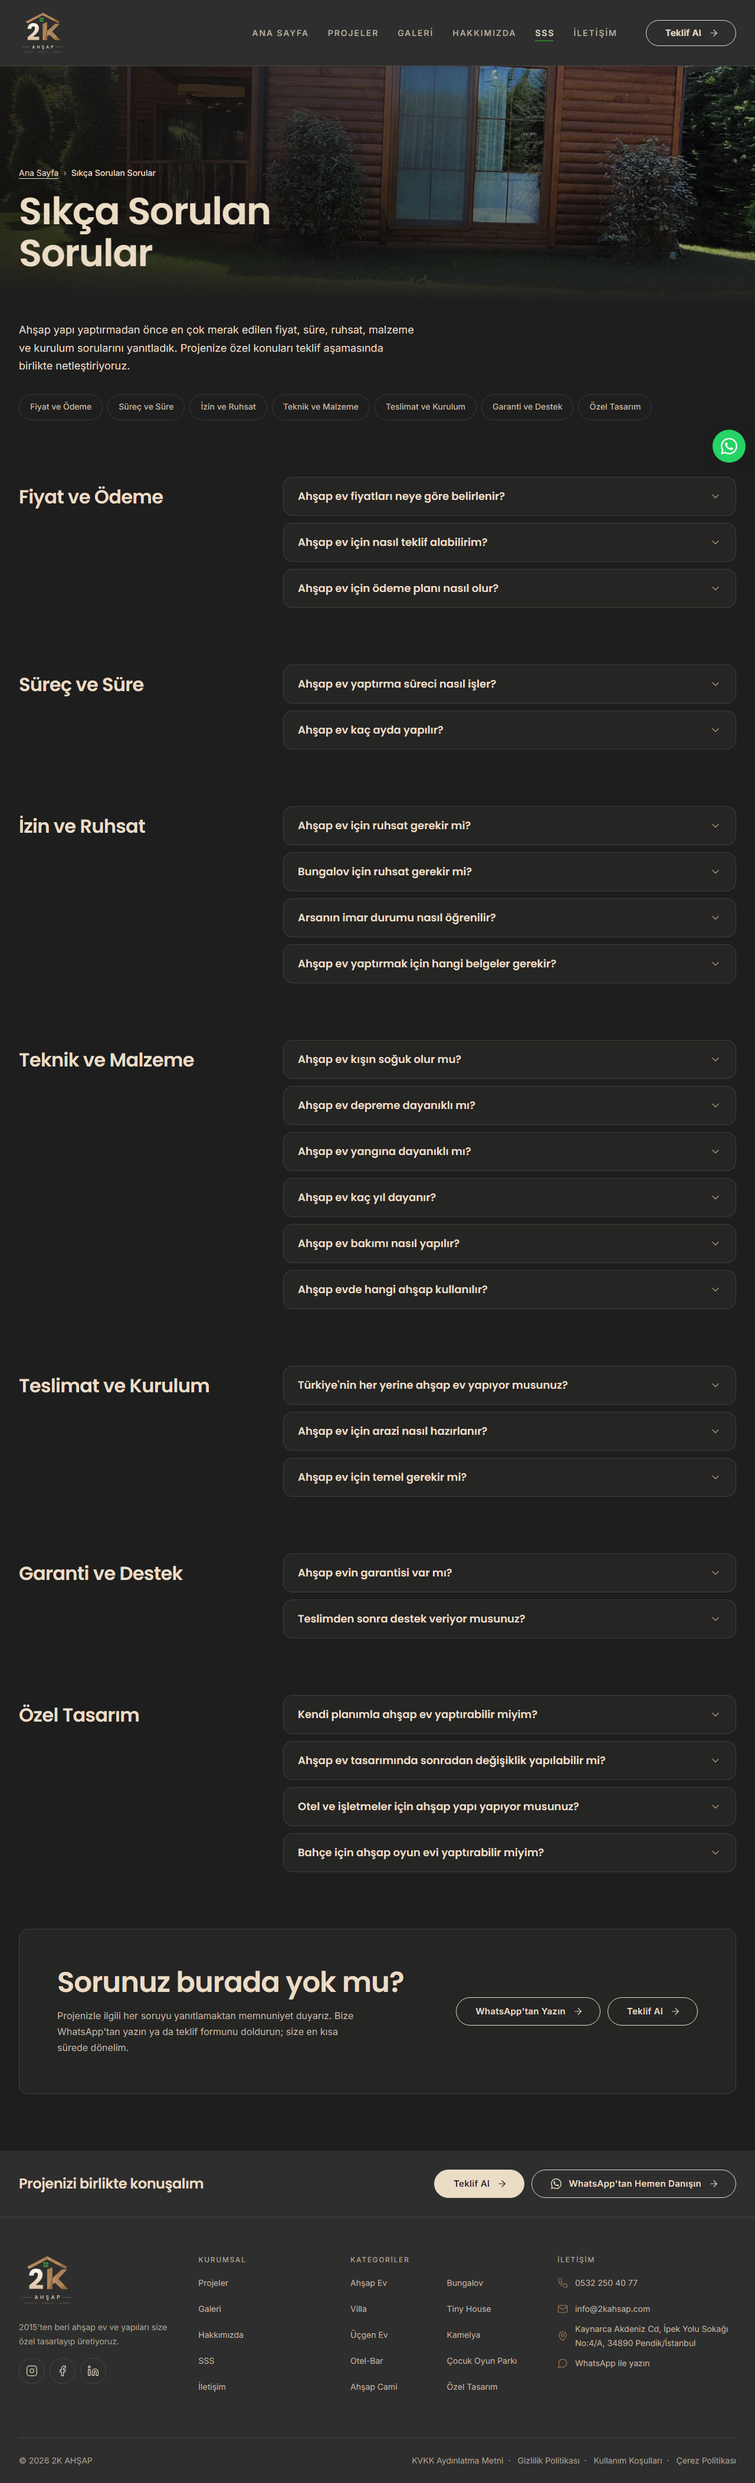
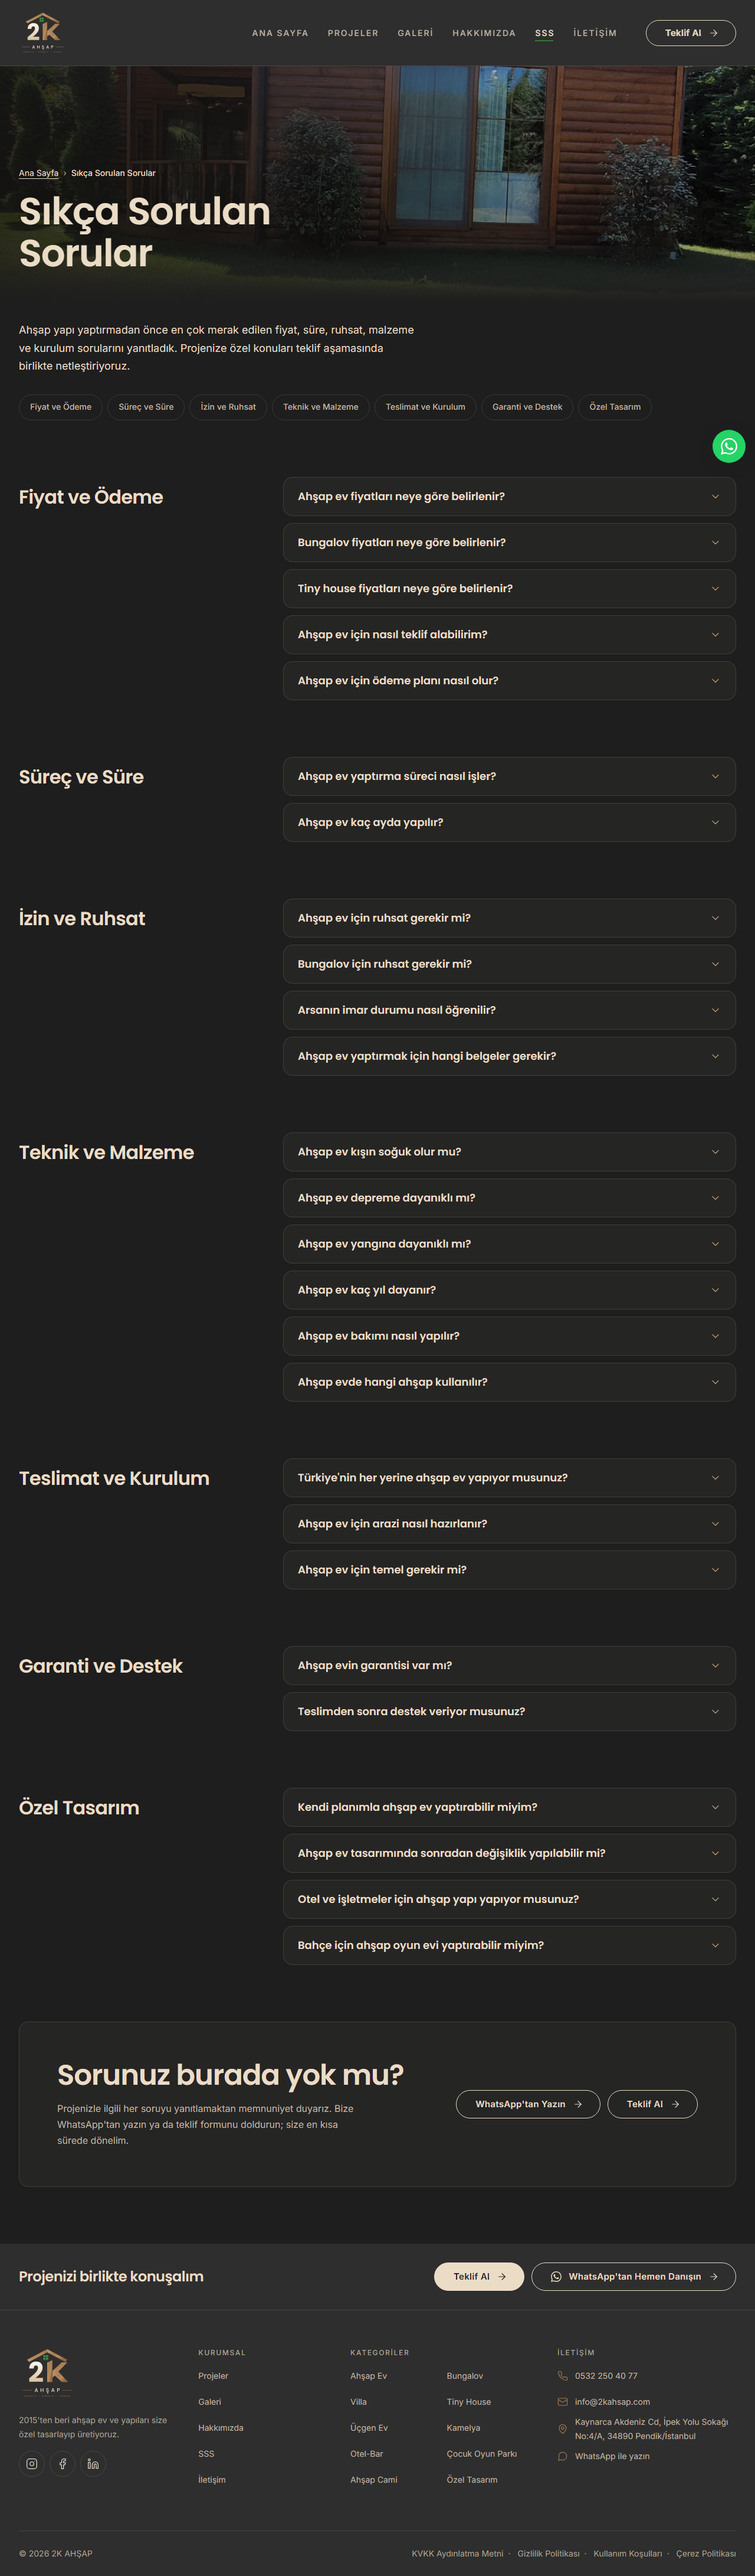
SSS: bungalov ve tiny house için fiyat soruları (rakamsız)
- "Bungalov fiyatları neye göre belirlenir?" (/bungalov) ve "Tiny house fiyatları neye göre belirlenir?" (/tiny-house); ikisi de /sss'te Fiyat ve Ödeme grubunda
- Cevaplarda rakam yok (CLAUDE.md Metin Kuralı): fiyat yapının ölçü, plan ve tercihlerine göre değişir, teklifte netleşir
- Fiyat sorusu, bulunduğu her sayfada (ana sayfa ve 6 kategori) ilk sırada; bungalov ve tiny house'ta artık 5'er soru (sss.ts notu 3–5)
- Kullanıcı onaylı görsel fark: K ve S referansları yenilendi (6); docs/guvenli-mod/README.md Referans geçmişi
- check 0/0/0, form-kontrol ve jsonld-kontrol temiz (FAQPage yeni soruları içeriyor), check:sss 96/96, gorsel-kontrol 48/48 aynı

diff --git a/src/data/sss.ts b/src/data/sss.ts
@@ -2,7 +2,7 @@
 // Metin kuralı (CLAUDE.md): kesin süre, fiyat, garanti, sertifika veya proje sayısı yazılmaz;
 // "projeye göre değişir, teklifte netleştirilir" gibi güvenli ifadeler kullanılır.
 //
-// kategoriler: sorunun gösterileceği kategori sayfaları (site.ts'deki slug'lar); her kategoride 3–4 soru.
+// kategoriler: sorunun gösterileceği kategori sayfaları (site.ts'deki slug'lar); her kategoride 3–5 soru.
 // anaSayfa: ana sayfadaki en kritik 6 soru.
 
 export const sssGruplari = [
@@ -38,6 +38,22 @@ export const sorular: Soru[] = [
     grup: 'fiyat-ve-odeme',
     kategoriler: ['ahsap-ev', 'villa', 'ahsap-cami', 'ozel-tasarim'],
     anaSayfa: true,
+  },
+  {
+    id: 'bungalov-fiyatlari-neye-gore-belirlenir',
+    soru: 'Bungalov fiyatları neye göre belirlenir?',
+    cevap:
+      'Fiyat; bungalovun alanına, planına, asma kat ve veranda gibi eklerine, ahşap türüne, yalıtım ve kaplama tercihlerine göre değişir. Arazinin konumu ve kurulum koşulları da maliyeti etkiler. Bu yüzden sabit bir fiyat yerine, projenize özel teklifte tüm kalemleri açıkça netleştiriyoruz.',
+    grup: 'fiyat-ve-odeme',
+    kategoriler: ['bungalov'],
+  },
+  {
+    id: 'tiny-house-fiyatlari-neye-gore-belirlenir',
+    soru: 'Tiny house fiyatları neye göre belirlenir?',
+    cevap:
+      "Fiyat; tiny house'un ölçülerine, iç yerleşimine, ahşap türüne, yalıtım ve donanım tercihlerine göre değişir. Teslim yeri ve kurulum koşulları da maliyeti etkiler. Sabit bir fiyat yerine, projenize özel teklifte tüm kalemleri açıkça netleştiriyoruz.",
+    grup: 'fiyat-ve-odeme',
+    kategoriler: ['tiny-house'],
   },
   {
     id: 'ahsap-ev-icin-nasil-teklif-alabilirim',

diff --git a/docs/guvenli-mod/README.md b/docs/guvenli-mod/README.md
@@ -119,6 +119,7 @@ Tek pikselden küçük bir değişiklik (çok küçük puntoda bir nokta gibi) g
 | 20 Ekim 2026 | Bu satırı ekleyen commit (kod ve referans birlikte) | Yalnızca Ç 375 yenilendi (1 referans; kullanıcı talebi): mobilde (< 768px) kısa bant, "Sitemiz izleme çerezi kullanmaz. Ayrıntılar: Çerez Politikası" ve sağında küçük "Anladım" (dokunma alanı 44px), iç boşluk 12px; 375px'te bant 87px. Ç 768 ve 1280 %0 aynı (masaüstü değişmedi). Kontrol `--sadece=cerez-bandi` ile yapıldı; bant diğer çekimlerde kapalı olduğu için onları etkilemez. |
 | 25 Ekim 2026 | Bu satırı ekleyen commit (kod ve referanslar birlikte) | A 375/768/1280, A1 768 ve Ç 768 yenilendi (5 referans; kullanıcı onaylı): Ürünlerimiz on kategori kartlık, elle kaydırılan şerit oldu (kart numaraları, kategori düğmeleri ve ara tondaki bant kalktı; bölüm tek gece zemin; ≥ 768px'te kartların yanında oklar, sağ kenar zemine karışır; "Tüm projeler" başlıkta, mobilde kartların altında). Boy: A 375 7485 → 7285, 768 6291 → 5624, 1280 4508 → 4452. A1 768 ve Ç 768'de yalnızca ilk ekranın altındaki kart üstleri ve link değişti. A1 412, Ç 375 ve Ç 1280 %0 aynı (yeni çekimlerdeki 50–128 baytlık gürültü yüzünden yenilenmedi). Önceki tam koşuda diğer 43 çekim %0 aynıydı. 768px'teki "yüklenemeyen görsel" uyarısı zararsız: ilk ekran çekimi şeridin ekran dışındaki lazy görsellerini bekliyor. |
 | 26 Ekim 2026 | Bu satırı ekleyen commit (kod ve referanslar birlikte) | Yalnızca İ yenilendi (3 referans; kullanıcı onaylı): "Bize ulaşın" listesine Adres'in altına "Çalışma saatleri" satırı (saat ikonu, "Pazartesi–Cumartesi 08:00–19:00, Pazar kapalı"). Boy: İ 375 3907 → 4005, 768 3280 → 3353, 1280 2119 → 2146; 1280'de form kartı sol sütunla aynı boyda durduğu için 27 px uzadı. Eklemenin altı, eklenen yükseklik kadar kaydırılınca referansla %0,15–0,19 farklı (alt piksel metin gürültüsü; 1280'de form sütunu kaymadığı için %3). M1 ve M2 %0 aynı. Aynı koşuda K ve S de yenilendi (sonraki satır); diğer 39 çekim %0 aynıydı. |
+| 26 Ekim 2026 | Bu satırı ekleyen commit (kod ve referanslar birlikte) | K ve S yenilendi (6 referans; kullanıcı onaylı): rakam vermeyen iki yeni SSS sorusu, "Bungalov fiyatları neye göre belirlenir?" (K'de listenin başında) ve "Tiny house fiyatları neye göre belirlenir?" (S'de ikisi Fiyat ve Ödeme grubunda, "Ahşap ev fiyatları"nın altında). Boy: K 375 4098 → 4188, 768 3109 → 3187, 1280 2369 → 2447; S 375 5633 → 5815, 768 4877 → 5033, 1280 4207 → 4363. Eklemenin altı, kaydırılınca referansla %0–1,6 farklı (alt piksel metin gürültüsü). `/tiny-house` gorsel-kontrol'de yok; ayrıca çekildi. Yenilemeden sonraki koşu 48/48 aynı; `check:sss` 96/96. |
 
 ### Bilinen sınırlar
 
